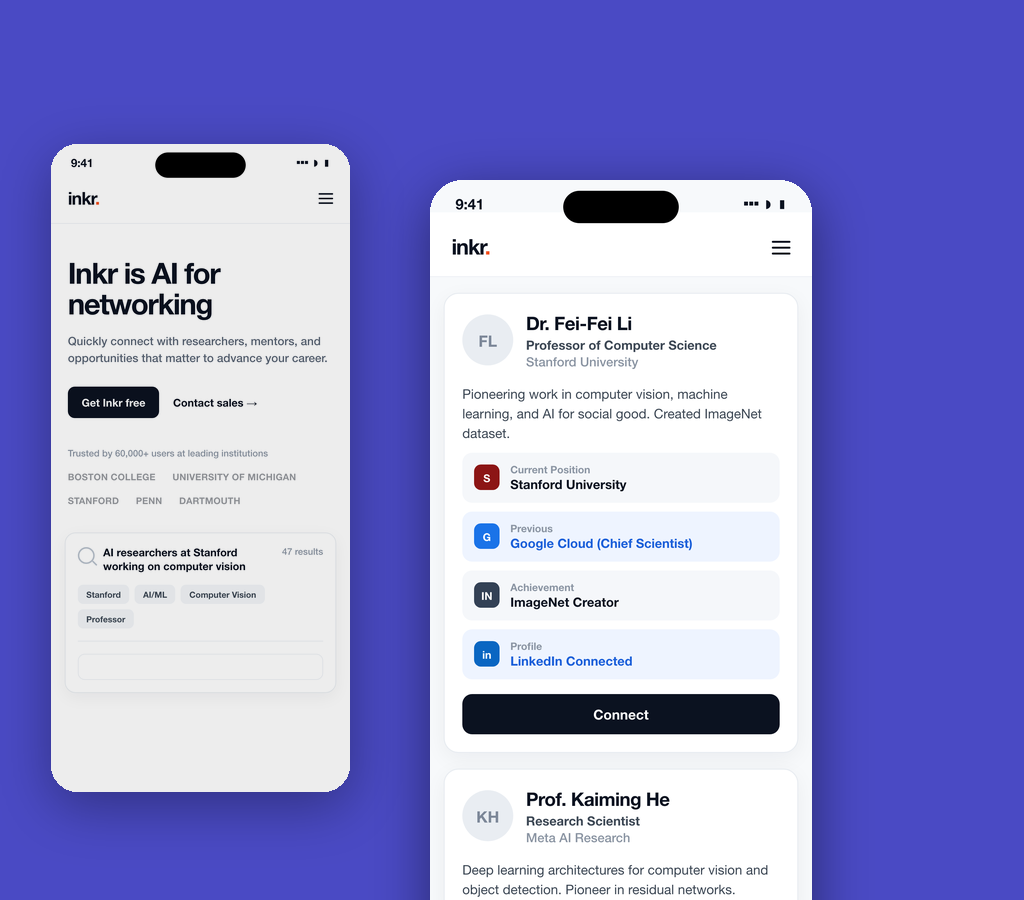
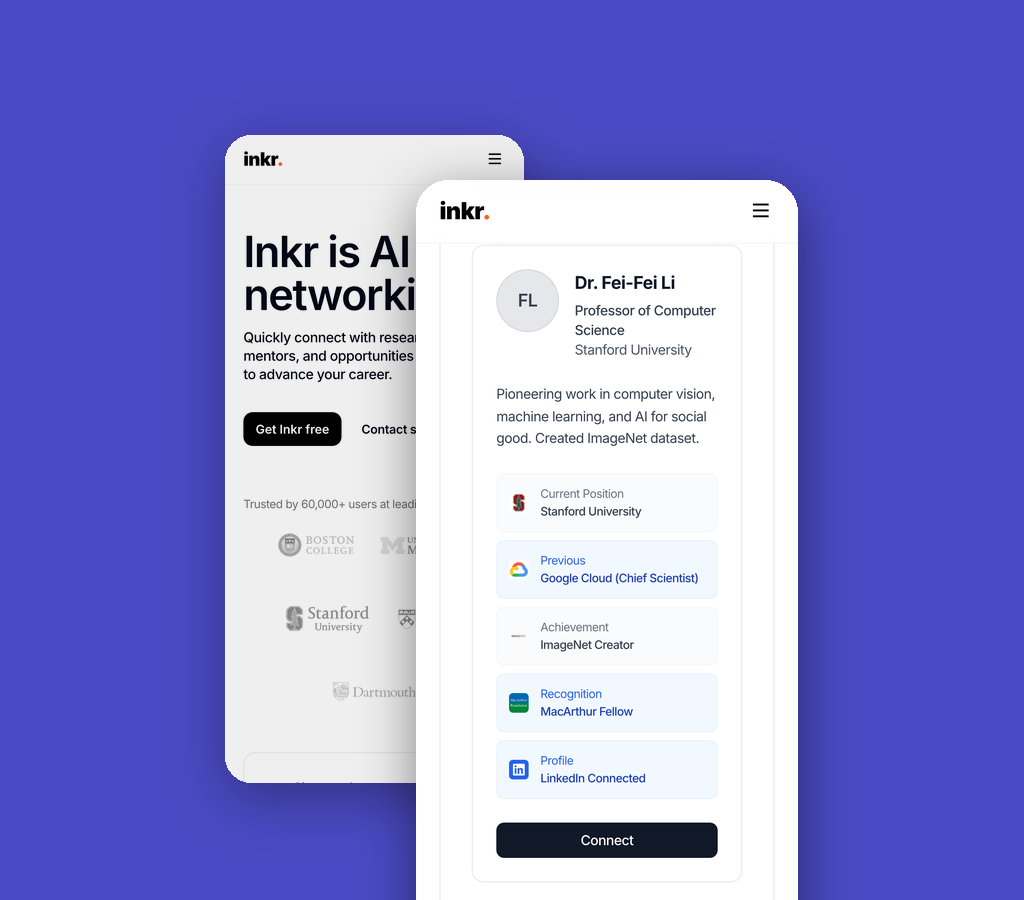
Real 3x app captures, centred pairs, and a lightbox write-up panel
Linkd and Inkr art is now genuine screenshots of linkddaily.com and inkr.pro
captured at a 390x844 viewport with a 3x pixel ratio, rather than hand-built
HTML approximations. That fixes three things at once: the university wordmarks
under "Trusted by 60,000+" and the Stanford, Google Cloud, MacArthur, and
LinkedIn marks in the profile rows are the real ones instead of lettered
boxes; Linkd renders in its actual monospace face rather than the thin sans I
had substituted; and the gap between the hint line and the keyboard is gone,
since that was an artefact of my layout, not the app's.

The phone pair is now centred as a group. It was pinned at 5% from the left
edge with the front screen offset from there, which pushed the whole
composition left of centre.

Clicking a card opens a write-up beside the artwork: name, a Visit link
showing the bare domain, what the thing is, and the byline. The panel takes
the project's own `cardBg`, which matches the artwork's background so the two
halves read as one surface. Telo has no site yet, so it keeps the full frame
with its caption in the bottom-left corner instead.

The dialog is capped at 88vh; Telo's square artwork overflowed the viewport at
full width.

Changed region(s): [[0.0312, 0.1244, 0.8125, 1.0], [0.4688, 0.28, 0.6875, 0.4044], [0.5312, 0.1867, 0.6875, 0.2489]]

diff --git a/components/BentoGrid.tsx b/components/BentoGrid.tsx
@@ -98,14 +98,15 @@ export default function BentoGrid({ projects }: { projects: Project[] }) {
                   role="dialog"
                   aria-modal="true"
                   aria-label={zoomed.name}
-                  className="relative w-[min(92vw,58rem)] overflow-hidden rounded-2xl"
+                  className="relative max-h-[88vh] w-[min(94vw,64rem)] overflow-hidden rounded-2xl"
+                  style={{ backgroundColor: zoomed.cardBg ?? "var(--foreground)" }}
                   initial={{ scale: 0.94, opacity: 0, y: 10 }}
                   animate={{ scale: 1, opacity: 1, y: 0 }}
                   exit={{ scale: 0.96, opacity: 0, y: 6 }}
                   transition={{ duration: 0.3, ease: EASE }}
                   onClick={(e) => e.stopPropagation()}
                 >
-                  <CardFace project={zoomed} large />
+                  <Lightbox project={zoomed} />
                 </motion.div>
               </motion.div>
             )}
@@ -117,6 +118,79 @@ export default function BentoGrid({ projects }: { projects: Project[] }) {
 }
 
 /* eslint-disable @next/next/no-img-element */
+
+/**
+ * Zoomed view. Projects with a landing page put the artwork on the left and
+ * the write-up beside it; the artwork's own background matches `cardBg`, so
+ * the two halves read as one panel. Telo has no site yet, so it keeps the
+ * full frame with a caption tucked into the bottom-left corner.
+ */
+function Lightbox({ project }: { project: Project }) {
+  const shot = project.shots?.[0];
+  const dark = project.cardDark;
+  const body = dark ? "text-white" : "text-neutral-900";
+  const muted = dark ? "text-white/65" : "text-neutral-600";
+  const rule = dark ? "border-white/20" : "border-black/10";
+
+  if (!shot) return <CardFace project={project} large />;
+
+  if (!project.href) {
+    return (
+      <div className="relative">
+        <img
+          src={shot.src}
+          alt={shot.alt}
+          className="mx-auto block max-h-[88vh] w-auto"
+        />
+        <div className="absolute bottom-0 left-0 p-6 sm:p-8">
+          <p className={`text-lg font-semibold ${body}`}>{project.name}</p>
+          <p className={`mt-1 max-w-sm text-sm leading-relaxed ${muted}`}>
+            {project.blurb ?? project.detail}
+          </p>
+        </div>
+      </div>
+    );
+  }
+
+  return (
+    <div className="flex flex-col sm:flex-row">
+      <img
+        src={shot.src}
+        alt={shot.alt}
+        className="block w-full self-stretch object-cover sm:w-[62%] sm:shrink-0"
+      />
+
+      <div className="flex flex-1 flex-col justify-center gap-3 p-6 sm:p-8">
+        <p className={`text-xl font-semibold ${body}`}>{project.name}</p>
+
+        <a
+          href={project.href}
+          target="_blank"
+          rel="noreferrer"
+          className={`inline-flex w-fit items-center gap-1.5 text-sm font-medium ${body} underline decoration-2 underline-offset-4 ${
+            dark ? "decoration-white/40 hover:decoration-white" : "decoration-black/25 hover:decoration-black"
+          }`}
+        >
+          Visit
+          <span className={muted}>{prettyUrl(project.href)}</span>
+        </a>
+
+        <p className={`text-sm leading-relaxed ${muted}`}>
+          {project.blurb ?? project.detail}
+        </p>
+
+        <p className={`mt-1 border-t pt-3 text-xs ${rule} ${muted}`}>
+          Created by Rikhin Kavuru
+        </p>
+      </div>
+    </div>
+  );
+}
+
+/** Strip protocol and trailing slash so the URL reads as a label. */
+function prettyUrl(href: string) {
+  return href.replace(/^https?:\/\//, "").replace(/\/$/, "");
+}
 
 function CardFace({ project, large }: { project: Project; large?: boolean }) {
   const mark = project.mark ? marks[project.mark] : undefined;

diff --git a/lib/content.ts b/lib/content.ts
@@ -229,6 +229,12 @@ export type Project = {
   sections?: CaseSection[];
   /** Figures shown at the end of a case study. */
   stats?: { value: string; label: string; detail?: string }[];
+  /** Sentence or two shown beside the artwork in the lightbox. */
+  blurb?: string;
+  /** Must match the artwork's own background so the two blend seamlessly. */
+  cardBg?: string;
+  /** Set when cardBg is dark enough to need light text. */
+  cardDark?: boolean;
   current?: boolean;
 };
 
@@ -244,6 +250,9 @@ export const projects: Project[] = [
     current: true,
     shots: [{ src: "/projects/virahacks.png", alt: "ViraHacks", width: 600, height: 300 }],
     tags: ["Community", "Healthcare", "1,100+ students"],
+    blurb:
+      "A hackathon network for high schoolers: real venues, mentors, judges, and healthcare problems worth solving, all run by students.",
+    cardBg: "#f2f3f1",
   },
   {
     slug: "telo",
@@ -255,6 +264,10 @@ export const projects: Project[] = [
     current: true,
     shots: [{ src: "/projects/telo.png", alt: "Telo", width: 600, height: 600 }],
     tags: ["Pharma", "Manufacturing", "Supply chain"],
+    blurb:
+      "Decentralized microfactories making the sterile injectables that keep going short.",
+    cardBg: "#17171a",
+    cardDark: true,
   },
   {
     slug: "inkr",
@@ -266,6 +279,10 @@ export const projects: Project[] = [
     mark: "inkr",
     shots: [{ src: "/projects/inkr.png", alt: "Inkr", width: 660, height: 470 }],
     tags: ["Education", "Marketplace", "60K+ users"],
+    blurb:
+      "AI for networking. Connects students with the researchers, mentors, and opportunities that actually move a career forward.",
+    cardBg: "#4a4ac4",
+    cardDark: true,
   },
   {
     slug: "linkd",
@@ -277,6 +294,10 @@ export const projects: Project[] = [
     mark: "linkd",
     shots: [{ src: "/projects/linkd.png", alt: "Linkd", width: 660, height: 440 }],
     tags: ["Games", "45K+ daily players"],
+    blurb:
+      "A daily word chain game. Six to ten words, each pair forming a real compound or common phrase.",
+    cardBg: "#d32b25",
+    cardDark: true,
   },
 ];
 

diff --git a/ASSETS.md b/ASSETS.md
@@ -132,10 +132,16 @@ Each project's bento card is a composed image in `public/projects/`:
 | `linkd.png` | Two app screens on Linkd red |
 | `inkr.png` | Two app screens on indigo |
 
-The Linkd and Inkr phone screens are rebuilt as HTML in the scratch directory
-and rendered at 3x, not upscaled screenshots. That is why they are sharp at
-card size. Re-render from those templates rather than re-photographing the
-sites.
+The Linkd and Inkr phone screens are real captures of linkddaily.com and
+inkr.pro taken at a 390x844 viewport with a 3x device pixel ratio, so they are
+sharp at card size without upscaling. Recapture the same way rather than
+scaling a 1x screenshot.
+
+Clicking a card opens a lightbox. Projects with a `href` get the artwork on the
+left and a write-up beside it, driven by `blurb`, `cardBg`, and `cardDark` on
+the project. `cardBg` must match the artwork's own background exactly or the
+seam shows. Projects without a `href` (Telo) keep the full frame and take a
+caption in the bottom-left corner instead.
 
 Inkr's card is indigo rather than its own orange: Inkr's palette is essentially
 black-and-white with an orange dot, and orange sat too close to Linkd's red for
